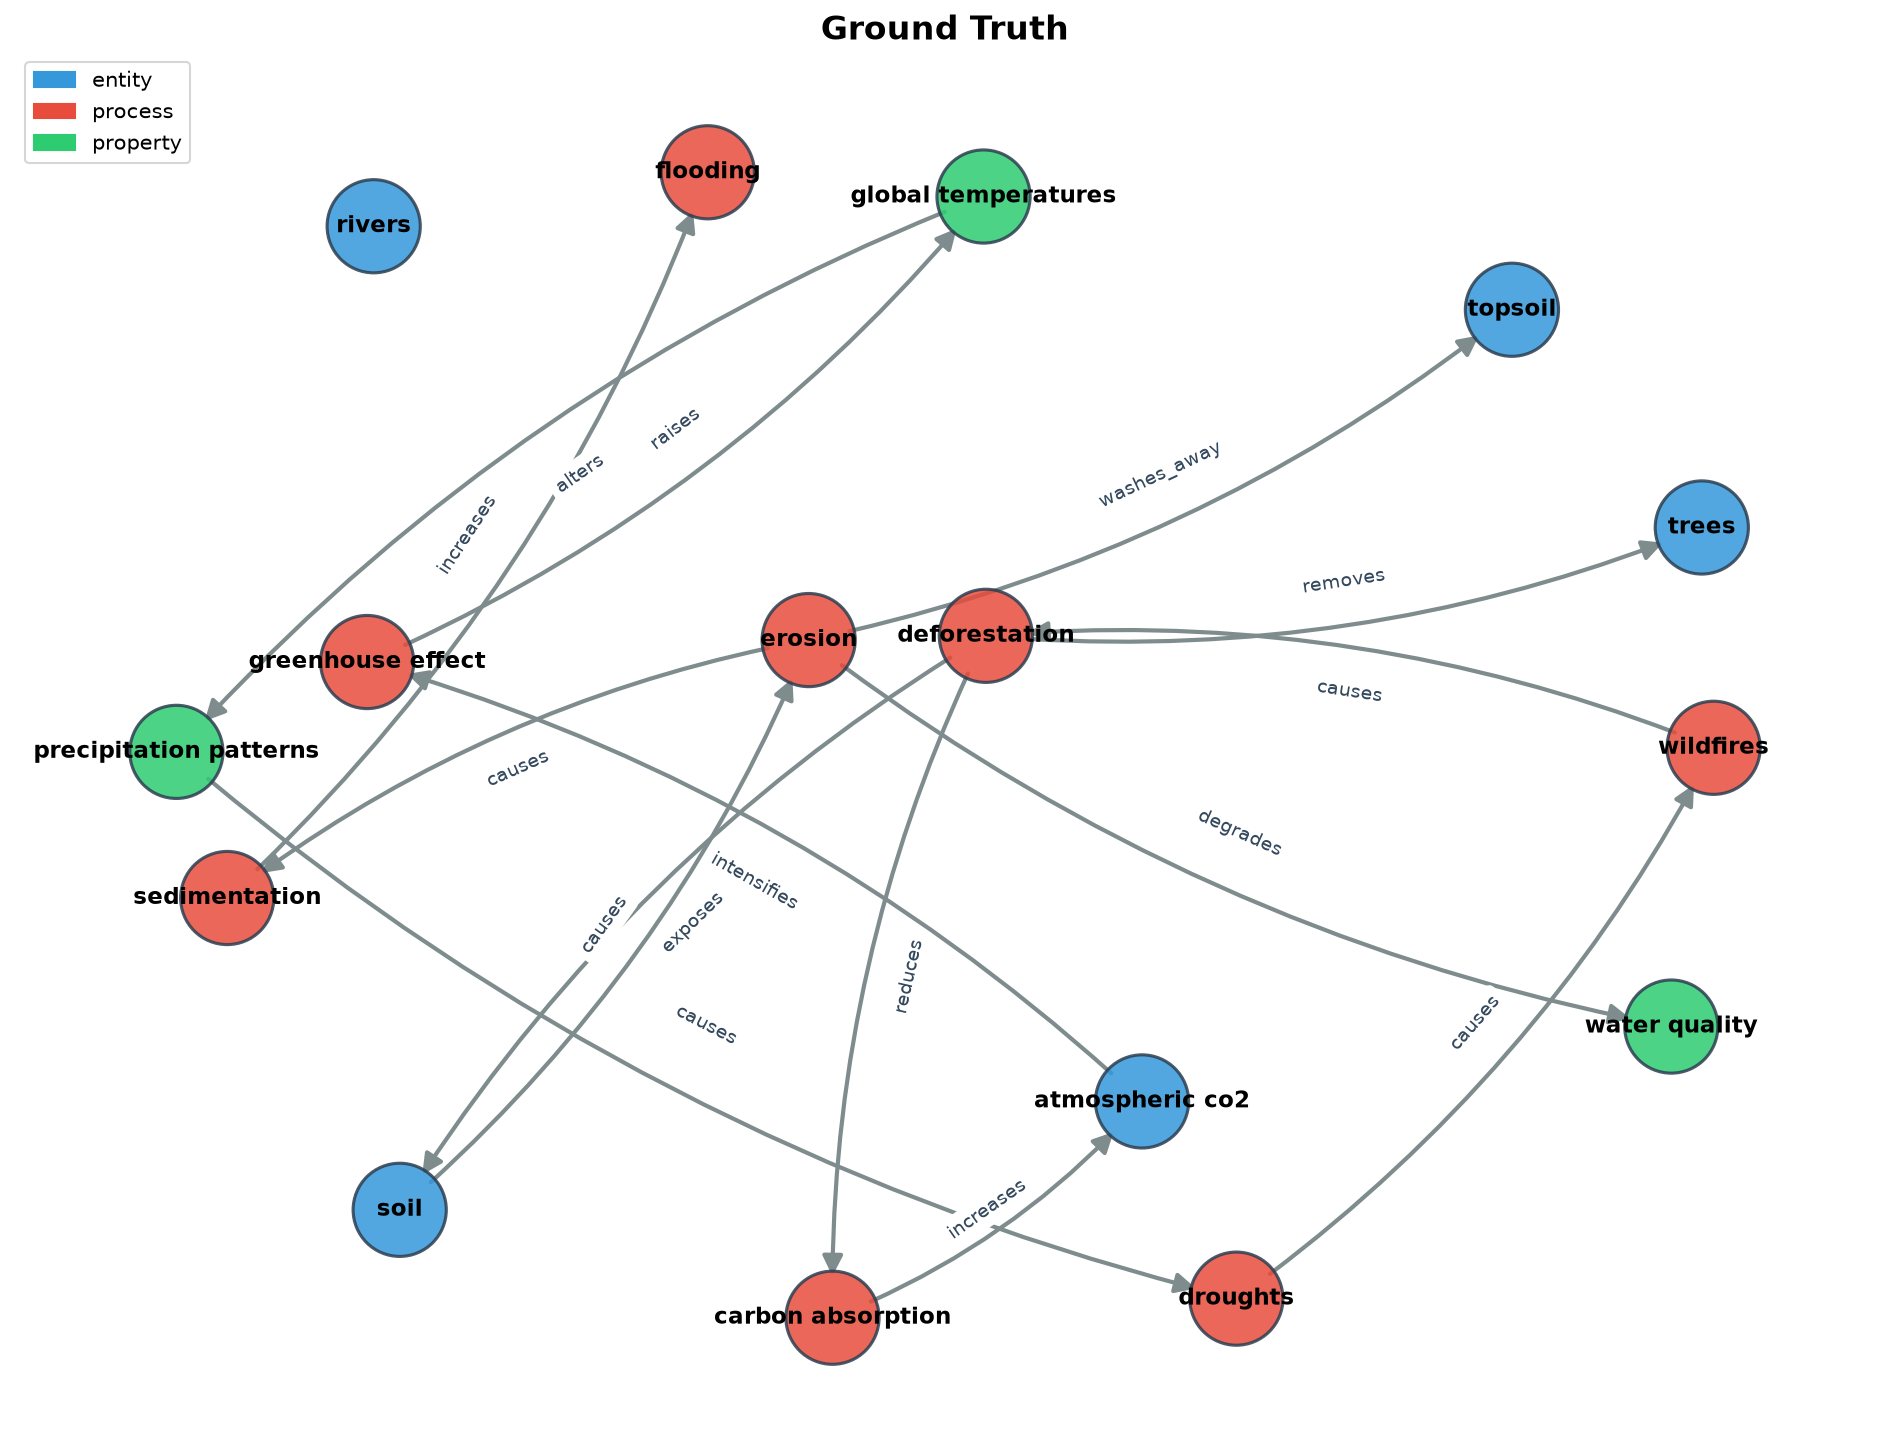
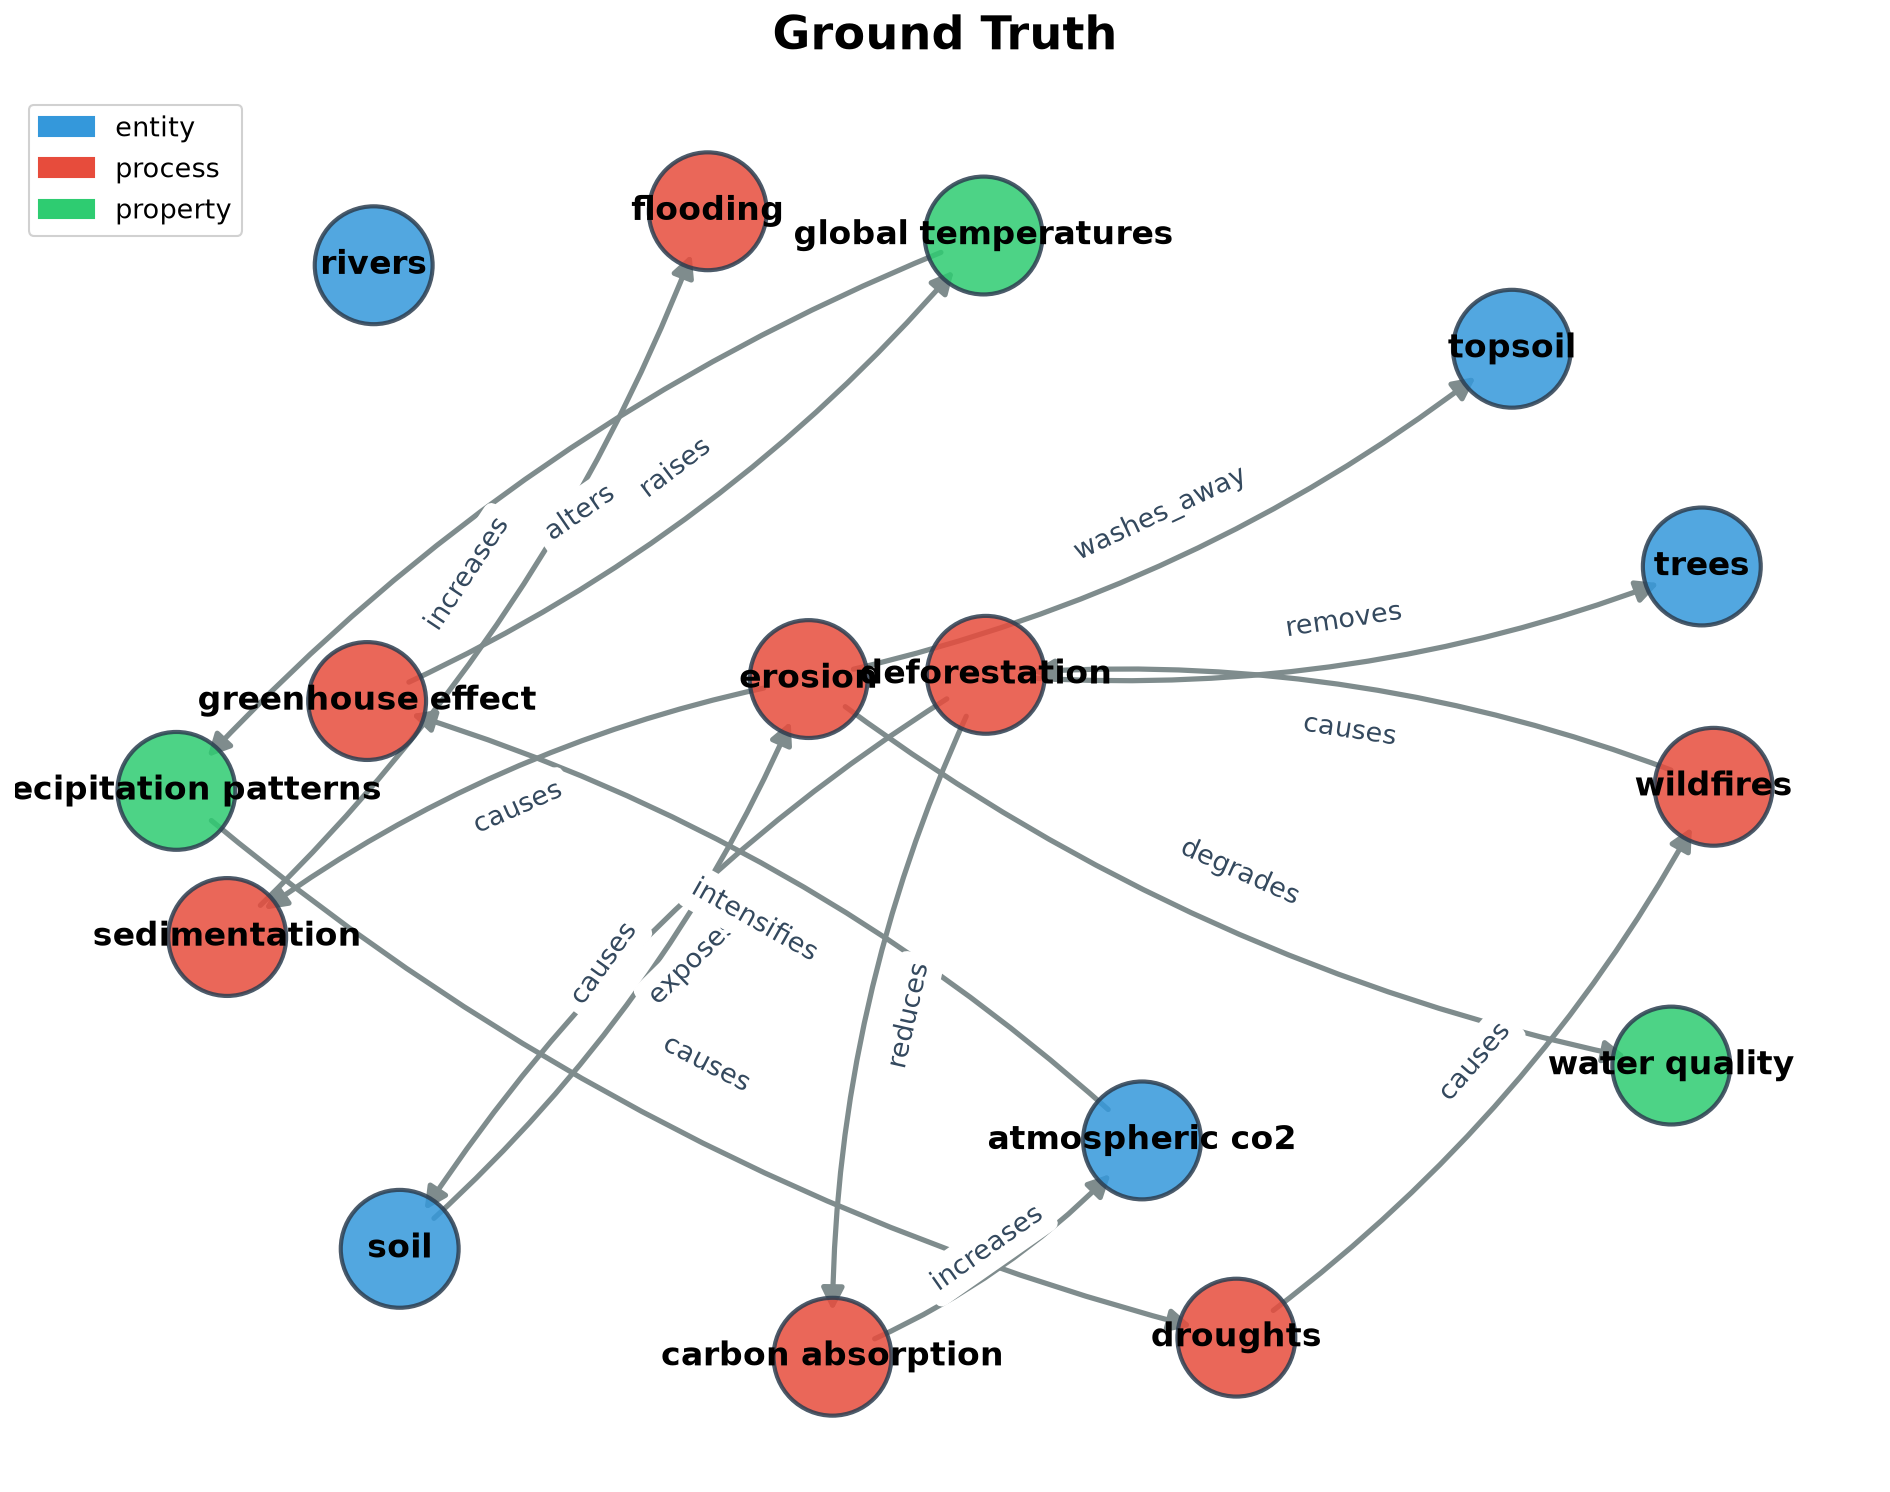
improved visualisation: anchored node positions + larger fonts

diff --git a/code/benchmark_ground_truth.py b/code/benchmark_ground_truth.py
@@ -288,41 +288,94 @@ def _draw_one_graph(G: nx.DiGraph, ax, title: str, pos=None):
 
     if len(G.nodes) == 0:
         ax.text(0.5, 0.5, "(empty graph)", ha="center", va="center",
-                fontsize=16, transform=ax.transAxes)
-        ax.set_title(title, fontsize=16, fontweight="bold")
+                fontsize=20, transform=ax.transAxes)
+        ax.set_title(title, fontsize=22, fontweight="bold", pad=20)
         ax.axis("off")
         return {}
 
     if pos is None:
         pos = nx.spring_layout(G, k=2.8, iterations=100, seed=42)
 
+    # Only draw positions for nodes actually in this graph
+    draw_pos = {n: pos[n] for n in G.nodes if n in pos}
+
     node_colors = [LABEL_COLORS.get(G.nodes[n].get("label", "").lower(), "#95a5a6")
-                   for n in G.nodes]
+                   for n in G.nodes if n in draw_pos]
+    nodelist = [n for n in G.nodes if n in draw_pos]
 
-    nx.draw_networkx_nodes(G, pos, ax=ax, node_size=2000,
+    nx.draw_networkx_nodes(G, draw_pos, nodelist=nodelist, ax=ax, node_size=3200,
                            node_color=node_colors, alpha=0.85,
-                           edgecolors="#2c3e50", linewidths=1.5)
-    nx.draw_networkx_labels(G, pos, ax=ax, font_size=11, font_weight="bold")
-    nx.draw_networkx_edges(G, pos, ax=ax, arrows=True, arrowsize=20,
-                           edge_color="#7f8c8d", width=2.0,
-                           connectionstyle="arc3,rad=0.12",
-                           min_source_margin=20, min_target_margin=20)
+                           edgecolors="#2c3e50", linewidths=2.0)
+    nx.draw_networkx_labels(G, draw_pos, ax=ax, font_size=16, font_weight="bold")
 
-    edge_labels = {(u, v): d.get("label", "") for u, v, d in G.edges(data=True)}
+    edgelist = [(u, v) for u, v in G.edges if u in draw_pos and v in draw_pos]
+    nx.draw_networkx_edges(G, draw_pos, edgelist=edgelist, ax=ax,
+                           arrows=True, arrowsize=22,
+                           edge_color="#7f8c8d", width=2.5,
+                           connectionstyle="arc3,rad=0.12",
+                           min_source_margin=22, min_target_margin=22)
+
+    edge_labels = {(u, v): d.get("label", "")
+                   for u, v, d in G.edges(data=True)
+                   if u in draw_pos and v in draw_pos}
     edge_labels = {k: v for k, v in edge_labels.items() if v}
     if edge_labels:
-        nx.draw_networkx_edge_labels(G, pos, edge_labels=edge_labels,
-                                     ax=ax, font_size=9, font_color="#34495e")
+        nx.draw_networkx_edge_labels(G, draw_pos, edge_labels=edge_labels,
+                                     ax=ax, font_size=13, font_color="#34495e")
 
     used_labels = {G.nodes[n].get("label", "").lower() for n in G.nodes}
     patches = [mpatches.Patch(color=LABEL_COLORS.get(l, "#95a5a6"), label=l)
                for l in sorted(used_labels) if l]
     if patches:
-        ax.legend(handles=patches, loc="upper left", fontsize=10)
+        ax.legend(handles=patches, loc="upper left", fontsize=13,
+                  framealpha=0.9, edgecolor="#cccccc")
 
-    ax.set_title(title, fontsize=16, fontweight="bold")
+    ax.set_title(title, fontsize=22, fontweight="bold", pad=20)
     ax.axis("off")
     return pos
+
+
+def _compute_anchored_positions(gt_graph: nx.DiGraph,
+                                other_graphs: list[nx.DiGraph]) -> dict:
+    """Compute positions anchored to the ground truth layout.
+
+    1. Layout the ground truth graph.
+    2. For other graphs, reuse GT positions for shared nodes.
+    3. Place new (non-GT) nodes in open space around the existing layout.
+    """
+    import numpy as np
+
+    gt_pos = nx.spring_layout(gt_graph, k=3.5, iterations=150, seed=42)
+
+    # Collect all extra nodes across all graphs
+    gt_nodes = set(gt_graph.nodes)
+    extra_nodes = set()
+    for G in other_graphs:
+        extra_nodes |= set(G.nodes) - gt_nodes
+
+    if not extra_nodes:
+        return gt_pos
+
+    # Find bounding box of GT layout
+    xs = [p[0] for p in gt_pos.values()]
+    ys = [p[1] for p in gt_pos.values()]
+    x_min, x_max = min(xs), max(xs)
+    y_min, y_max = min(ys), max(ys)
+    margin = 0.3 * max(x_max - x_min, y_max - y_min, 0.5)
+
+    # Place extra nodes along the periphery
+    rng = np.random.RandomState(123)
+    combined_pos = dict(gt_pos)
+    for node in sorted(extra_nodes):
+        # Pick a random spot on the boundary ring
+        angle = rng.uniform(0, 2 * np.pi)
+        radius = max(x_max - x_min, y_max - y_min) * 0.5 + margin * rng.uniform(0.5, 1.0)
+        cx = (x_min + x_max) / 2
+        cy = (y_min + y_max) / 2
+        combined_pos[node] = np.array([cx + radius * np.cos(angle),
+                                        cy + radius * np.sin(angle)])
+
+    return combined_pos
 
 
 def draw_graph(G: nx.DiGraph, path: Path, title: str | None = None) -> None:
@@ -341,19 +394,30 @@ def draw_graph(G: nx.DiGraph, path: Path, title: str | None = None) -> None:
 
 def draw_comparison(graphs: list[tuple[nx.DiGraph, str, Score | None, Score | None]],
                     path: Path, suptitle: str = "") -> None:
-    """Draw N graphs in a vertical stack with score annotations beneath each."""
+    """Draw N graphs in a vertical stack with shared, anchored positions.
+
+    The first graph is treated as the ground truth; its layout anchors
+    all subsequent panels so that shared nodes stay in the same place.
+    """
     import matplotlib
     matplotlib.use("Agg")
     import matplotlib.pyplot as plt
 
     n = len(graphs)
-    fig, axes = plt.subplots(n, 1, figsize=(20, 16 * n))
+    fig, axes = plt.subplots(n, 1, figsize=(26, 20 * n))
     fig.patch.set_facecolor("white")
     if n == 1:
         axes = [axes]
 
+    # Compute anchored positions from the first (ground truth) graph
+    gt_graph = graphs[0][0]
+    other_graphs = [g for g, *_ in graphs[1:]]
+    shared_pos = _compute_anchored_positions(gt_graph, other_graphs)
+
     for ax, (G, title, ent_s, rel_s) in zip(axes, graphs):
-        _draw_one_graph(G, ax, title)
+        _draw_one_graph(G, ax, title, pos=shared_pos)
+
+        # Score annotation below the graph
         subtitle_parts = []
         if ent_s:
             subtitle_parts.append(
@@ -364,12 +428,12 @@ def draw_comparison(graphs: list[tuple[nx.DiGraph, str, Score | None, Score | No
         if subtitle_parts:
             ax.text(0.5, -0.02, "\n".join(subtitle_parts),
                     ha="center", va="top", transform=ax.transAxes,
-                    fontsize=14, fontfamily="monospace",
-                    bbox=dict(boxstyle="round,pad=0.4", fc="#f8f8f8", ec="#cccccc"))
+                    fontsize=16, fontfamily="monospace",
+                    bbox=dict(boxstyle="round,pad=0.5", fc="#f8f8f8", ec="#cccccc"))
 
     if suptitle:
-        fig.suptitle(suptitle, fontsize=22, fontweight="bold", y=1.005)
-    fig.tight_layout(h_pad=4.0)
+        fig.suptitle(suptitle, fontsize=26, fontweight="bold", y=1.005)
+    fig.tight_layout(h_pad=5.0)
     fig.savefig(path, dpi=150, bbox_inches="tight")
     plt.close(fig)
     print(f"  saved → {path}")
